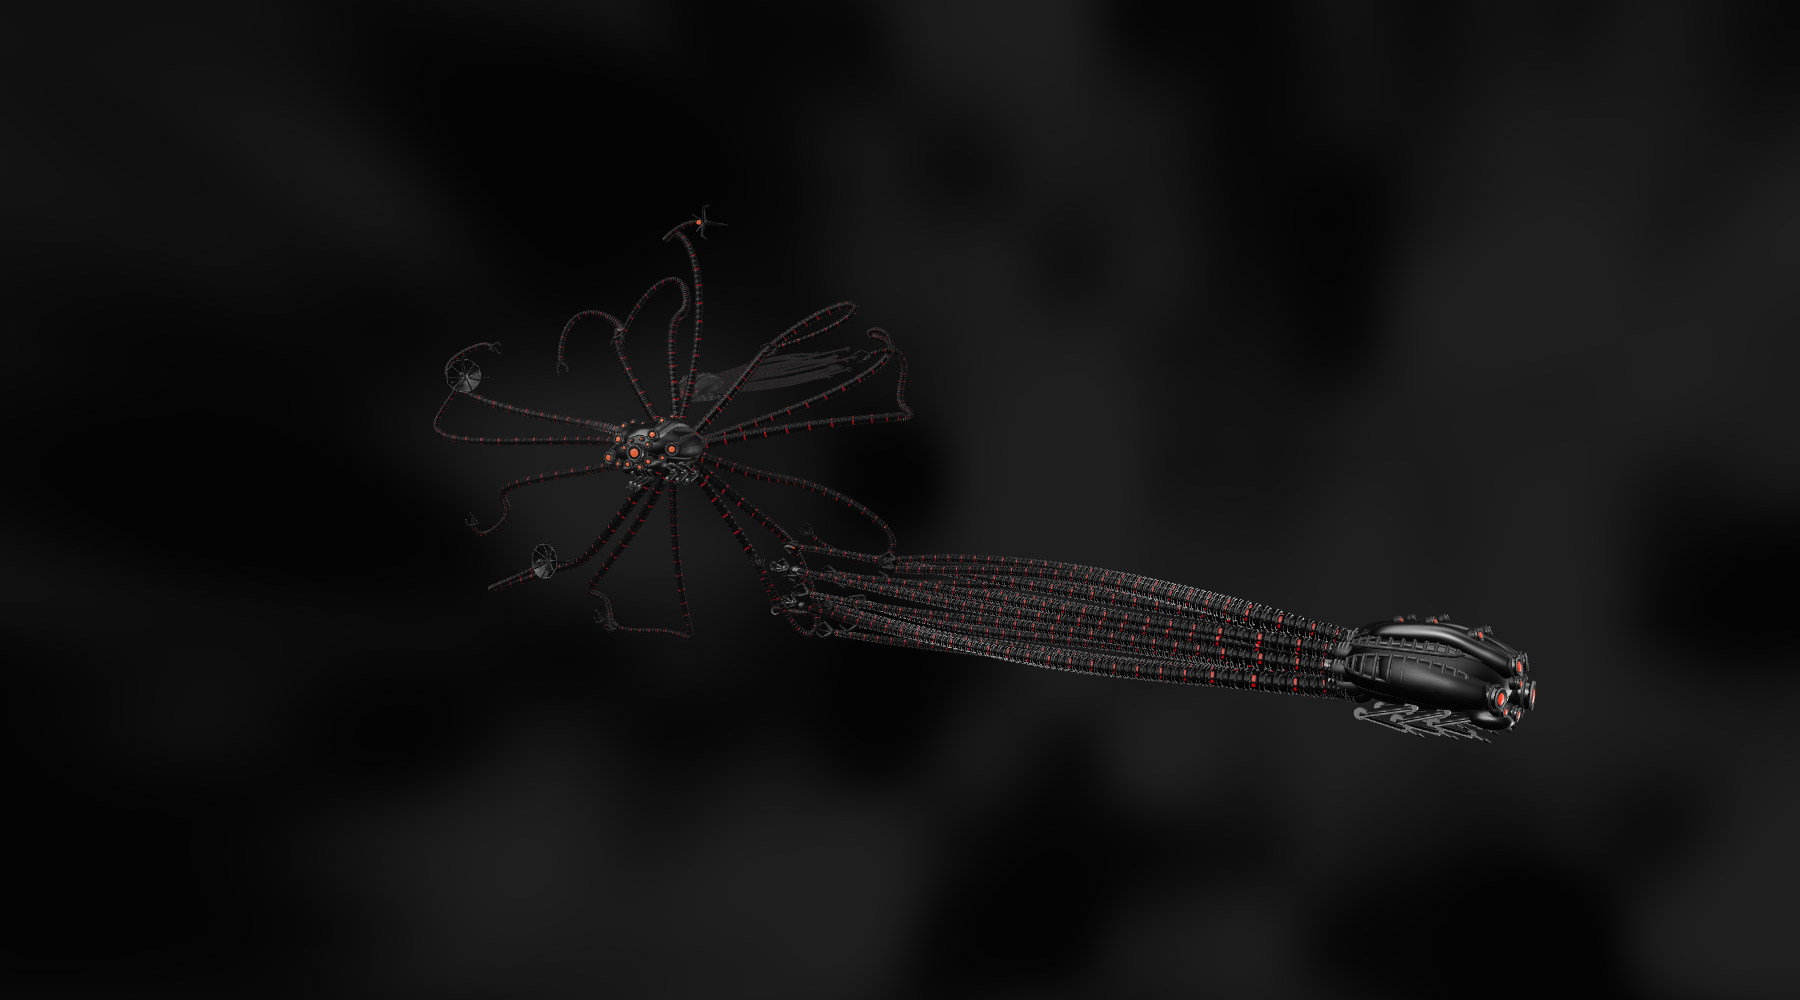
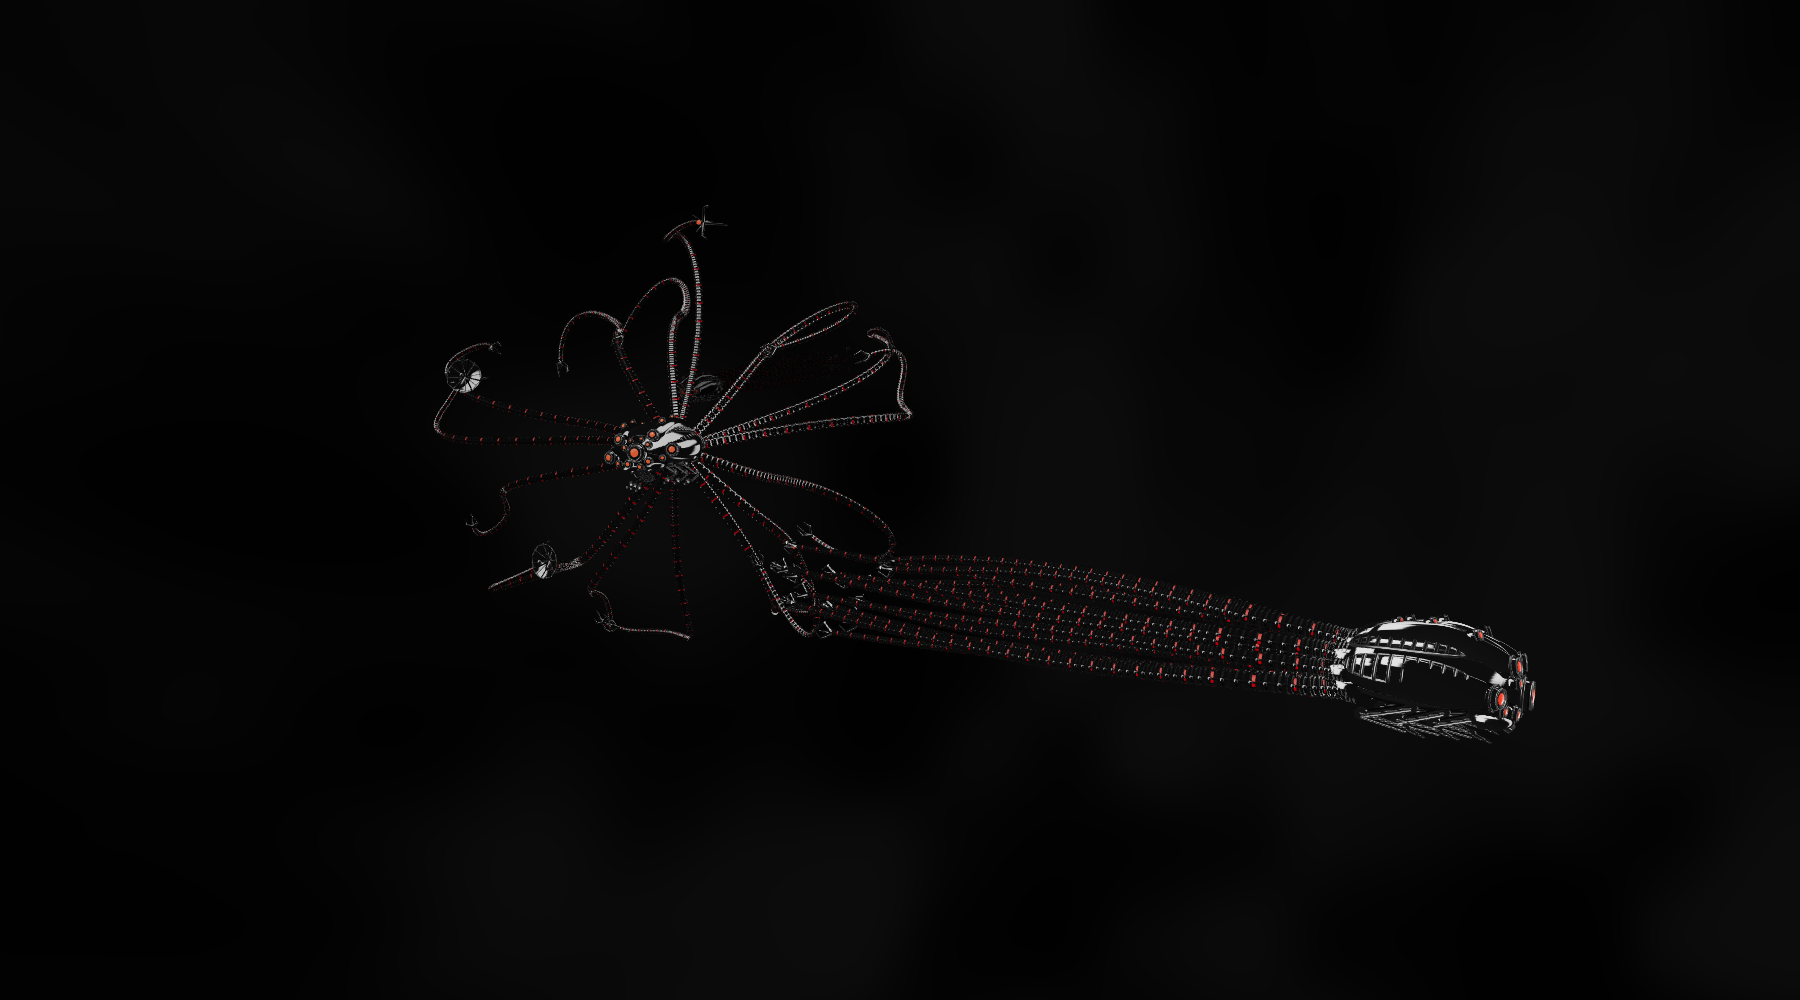
Keep distant squid dark and soften charcoal haze

diff --git a/atmosphere.js b/atmosphere.js
@@ -1,11 +1,11 @@
 import * as THREE from 'three';
 
 export function createAtmosphere(scene) {
-  // A lighter extinction colour leaves distant silhouettes visible, not blacked out.
-  scene.fog = new THREE.FogExp2(0x303030, .021);
+  // Distance removes light; the background haze must not paint distant metal grey.
+  scene.fog = new THREE.FogExp2(0x000000, .021);
   const uniforms = {
     time: { value: 0 },
-    haze: { value: scene.fog.color },
+    haze: { value: new THREE.Color(0x242424) },
   };
   const material = new THREE.ShaderMaterial({
     uniforms,
@@ -43,7 +43,7 @@ export function createAtmosphere(scene) {
         float layers = .65 * noise(p + vec2(drift, -drift * .7))
           + .35 * noise(p * 2.3 + vec2(-drift * .6, drift));
         float veil = smoothstep(.2, .8, layers);
-        gl_FragColor = vec4(haze * mix(.25, 1.15, veil), 1.0);
+        gl_FragColor = vec4(haze * mix(.25, .85, veil), 1.0);
         #include <tonemapping_fragment>
         #include <colorspace_fragment>
       }

diff --git a/README.md b/README.md
@@ -4,7 +4,7 @@ A procedural Three.js swarm inspired by the Sentinels from *The Matrix*: articul
 
 **[Open the live demo](https://matrix-squid.danieljohnmorris.com)**
 
-![A Sentinel deploying sensor dishes and probes beside a closer coasting Sentinel, with a distant patrol fading into grey fog.](public/screenshots/matrix-squid.png)
+![A Sentinel deploying sensor dishes and probes beside a closer coasting Sentinel against subtle charcoal haze.](public/screenshots/matrix-squid.png)
 
 ## The scene
 
@@ -30,7 +30,7 @@ Population scales with viewport width, including fullscreen and live resizing:
 
 Roaming width also follows the viewport aspect ratio, spreading the swarm across ultrawide displays while keeping portrait roaming narrower. Existing swimmers retain their positions when resizing; they steer gradually into the updated volumes. Removed swimmers release their procedural geometry and materials; new swimmers share the existing baked metal maps.
 
-Grey exponential depth fog fades distant swimmers into silhouettes. A slowly drifting, procedural monochrome backdrop adds broad patches of haze without particles or a screen-space overlay. Directional lights and neutral environment reflections reveal the metal; subdued red running lights follow the simulated tentacle segments.
+Distance fog attenuates light toward black, keeping far swimmers dark rather than tinting them grey. A slowly drifting procedural backdrop adds subtle charcoal haze without particles or a screen-space overlay; it does not illuminate the squid. Directional lights and neutral environment reflections reveal the metal; subdued red running lights follow the simulated tentacle segments.
 
 Tentacle vertebrae, collars, joint caps and claws use darker gunmetal than the head hardware, retaining lighting-driven highlights without continuous silver bands.
 

diff --git a/CHANGELOG.md b/CHANGELOG.md
@@ -2,6 +2,7 @@
 
 ## Unreleased
 
+- Darken the procedural clouds to subtle charcoal and separate their colour from black distance extinction, preventing far squid from becoming bright grey cut-outs; refresh the README image to match.
 - Refresh the README hero with the longer tentacles and current monochrome haze, retaining a deployed sensor pose and a closer coasting Sentinel.
 - Add staggered camera-facing approach/retreat destinations alongside free roaming, with perspective-aware framing, varied starting headings and vertical return arcs in portrait layouts; retain avoidance and broad-turn limits.
 - Replace near-black extinction with grey depth haze and a slowly drifting procedural monochrome backdrop, preserving Sentinel materials and scene lighting.
